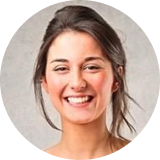
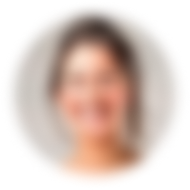
rezension modified

diff --git a/src/components/layout/Reviews.js b/src/components/layout/Reviews.js
@@ -61,7 +61,7 @@ export default function TestimonialsCarousel() {
             <div key={review.id} className="carousel-item">
               <div className="review__image-container flex items-center justify-center text-center rounded-full overflow-hidden ">
                 <Image
-                  className="review__image flex justify-center"
+                  className="review__image flex justify-center "
                   width={200}
                   height={200}
                   src={review.imageUrl}

diff --git a/src/components/layout/Header.js b/src/components/layout/Header.js
@@ -26,7 +26,7 @@ export default function Header() {
       <Link href="/">
         <Logo />
       </Link>
-      <nav className="flex items-center mx-auto justify-center gap-8 grow text-gray-400 font-semibold text-lg">
+      <nav className="flex items-center mx-auto justify-center gap-12 grow text-gray-400 font-semibold text-lg">
         <Link href={"/"}>
           <span className=" hover:text-primary hover:border-b-2 border-primary hover:rounded-full p-2 transition-all duration-300">
             Home

diff --git a/src/app/globals.css b/src/app/globals.css
@@ -52,14 +52,8 @@ section.hero {
 
 }
 
-.slick-slide {
-    display: inline-block;
-}
-.pagination {
-    @apply bg-bg;
+.review__image{
     filter: drop-shadow(0 0 10px rgba(219, 135, 38, 0.5));
-    
-        
 }
 
 .carousel-item {
